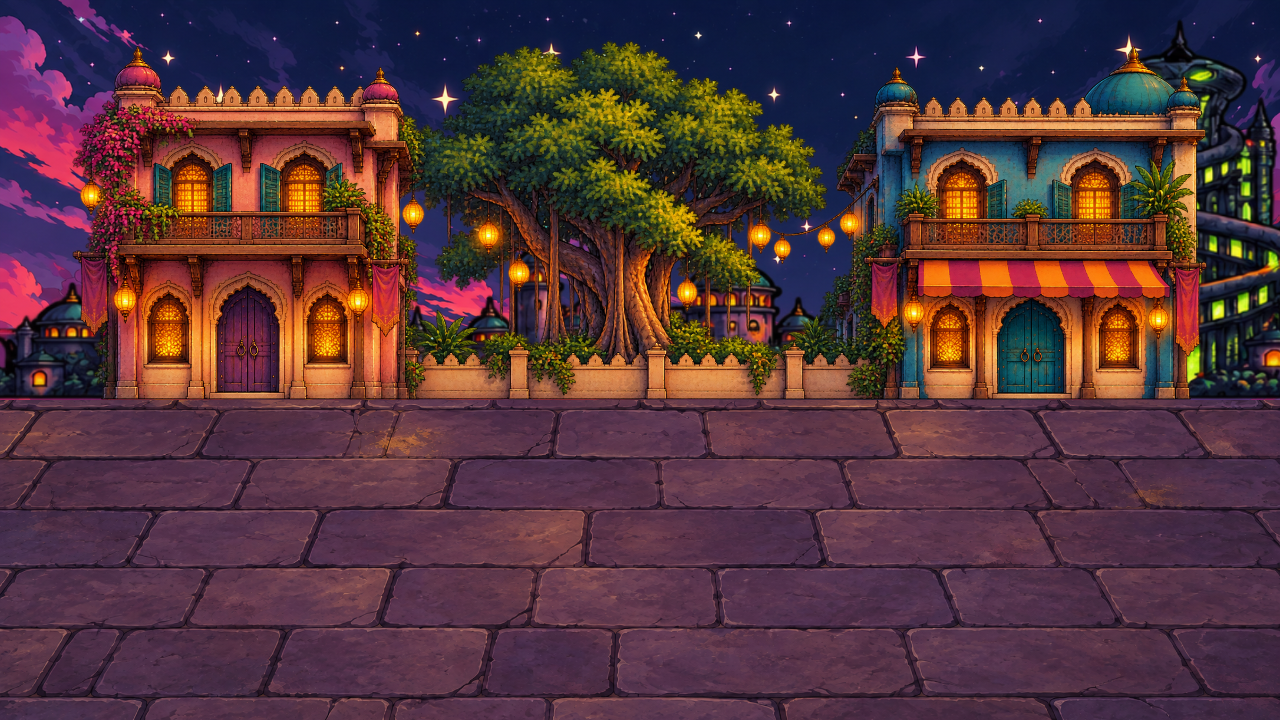
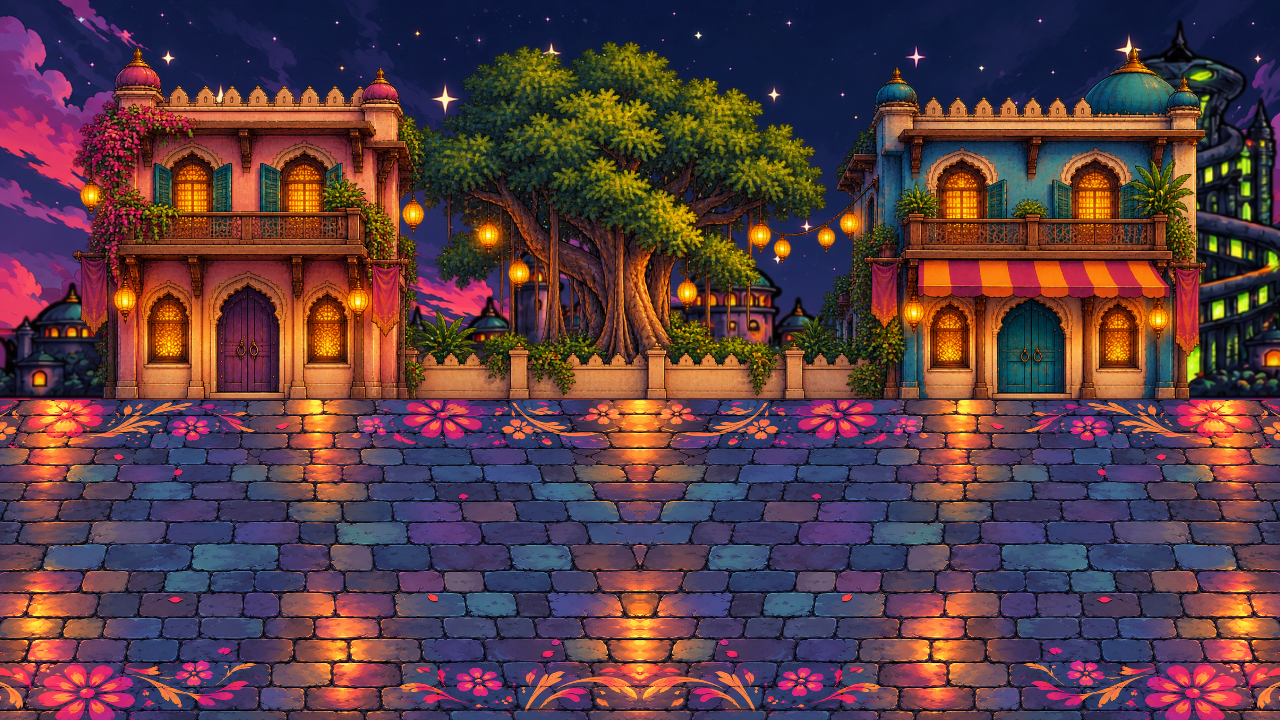
Update Stage 1 review with festival-style street

diff --git a/review/stage1-first-screen/index.html b/review/stage1-first-screen/index.html
@@ -1,12 +1,12 @@
 <!doctype html>
 <html lang="en"><head><meta charset="utf-8"><meta name="viewport" content="width=device-width,initial-scale=1"><title>Festival Night - First-screen art review</title>
 <style>*{box-sizing:border-box}body{margin:0;background:#130f1c;color:#f9eddb;font:17px/1.5 Arial,sans-serif}header,nav,.note{max-width:1600px;margin:auto;padding:16px 24px}header{padding-top:28px}h1{font-size:30px;line-height:1.2;margin:0 0 10px;color:#ffd68a}p{margin:6px 0;color:#d0c5cf}nav{display:flex;gap:10px;flex-wrap:wrap;padding-top:8px}button{font:inherit;border:1px solid #8e6b42;background:#241b30;color:#f9eddb;border-radius:5px;padding:10px 15px;cursor:pointer}button[aria-pressed=true]{background:#71334f;border-color:#ffd68a}button:focus-visible{outline:3px solid #ffd68a;outline-offset:3px}main{padding:8px 24px 20px;overflow-x:auto}.pair{display:grid;grid-template-columns:repeat(2,minmax(0,1fr));gap:18px;max-width:2560px;margin:auto}.native .pair{grid-template-columns:repeat(2,1280px);width:2578px}.single{display:block;max-width:1280px}.native .single{width:1280px}figure{margin:0;min-width:0}figcaption{font-size:17px;padding:9px 14px;background:#241b30;border-bottom:2px solid #a98142}img{display:block;width:100%;height:auto}.note{font-size:15px;padding-bottom:30px}a{color:#ffd68a}@media(max-width:800px){.pair{grid-template-columns:1fr}.native .pair{grid-template-columns:repeat(2,1280px)}h1{font-size:26px}}
-</style></head><body><header><h1>Festival Night: first-screen art review</h1><p>Larger architecture, finer contours and a quieter stone street, while keeping the banyan and warm festival lighting.</p></header>
+</style></head><body><header><h1>Festival Night: first-screen art review</h1><p>Approved larger architecture and finer detail, with the original festival-street character restored: cool cobbles, warm reflections and floral paint.</p></header>
 <nav aria-label="Compare artwork"><button data-mode="reference" aria-pressed="true">New Stage 1 / Stage 2</button><button data-mode="before" aria-pressed="false">Before / after</button><button data-mode="hero" aria-pressed="false">With the hero</button><button id="size" aria-pressed="false">Full size</button></nav>
-<main id="view"></main><p class="note">Single-screen review for the proposed Stage 1 art direction. <a href="proposed-background.png">Open the new background at full resolution</a>.</p>
+<main id="view"></main><p class="note">Single-screen reference: approved architecture with the revised festival-style street. <a href="proposed-background.png?v=20261020-festival-road">Open the new background at full resolution</a>.</p>
 <script>
 const view=document.querySelector('#view');let mode='reference',native=false;
-const picture=(file,label)=>`<figure><figcaption>${label}</figcaption><img src="${file}" alt="${label}" width="1280" height="720"></figure>`;
+const picture=(file,label)=>`<figure><figcaption>${label}</figcaption><img src="${file}?v=20261020-festival-road" alt="${label}" width="1280" height="720"></figure>`;
 function render(){view.classList.toggle('native',native);view.innerHTML=mode==='hero'?'<div class="pair single">'+picture('proposed-gameplay.png','New Stage 1 - actual game capture')+'</div>':'<div class="pair">'+(mode==='before'?picture('current-background.png','Current Stage 1')+picture('proposed-background.png','Proposed Stage 1'):picture('proposed-background.png','Proposed Stage 1')+picture('stage2-reference.png','Stage 2 reference'))+'</div>';}
 for(const button of document.querySelectorAll('[data-mode]'))button.addEventListener('click',()=>{mode=button.dataset.mode;for(const item of document.querySelectorAll('[data-mode]'))item.setAttribute('aria-pressed',String(item===button));render();});
 document.querySelector('#size').addEventListener('click',event=>{native=!native;event.currentTarget.setAttribute('aria-pressed',String(native));event.currentTarget.textContent=native?'Fit window':'Full size';render();});render();
